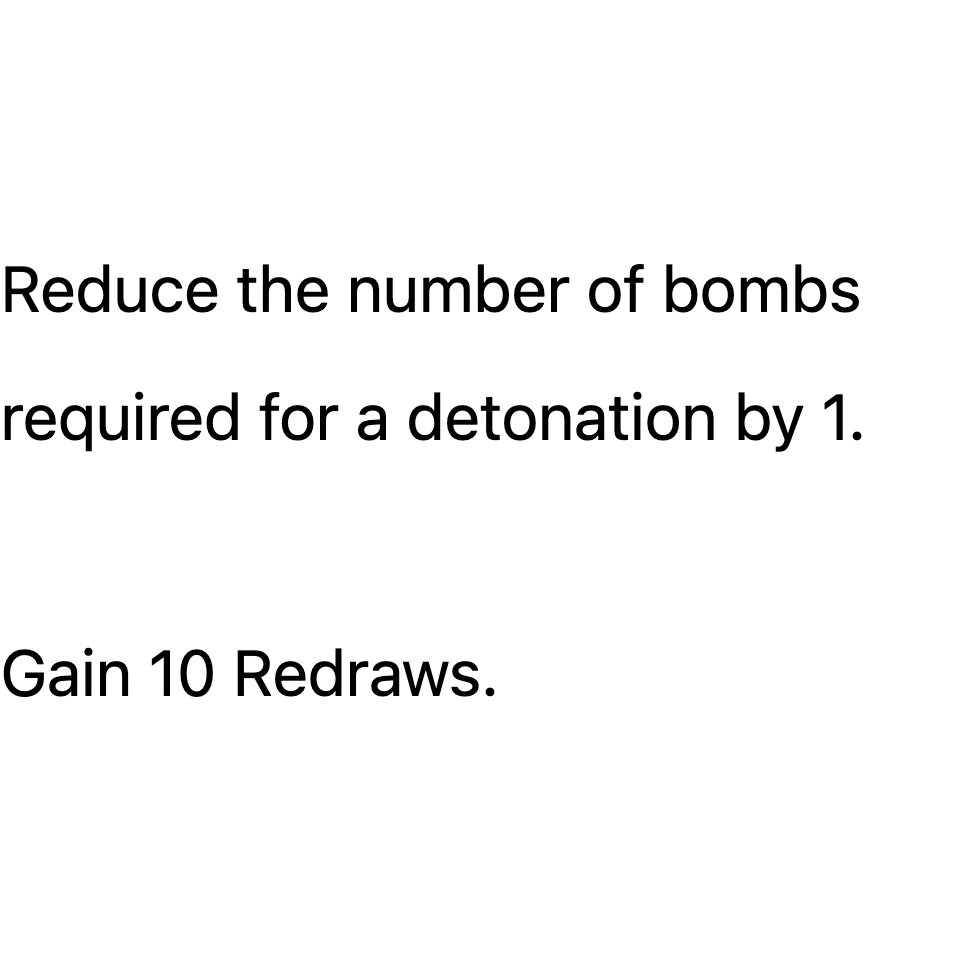
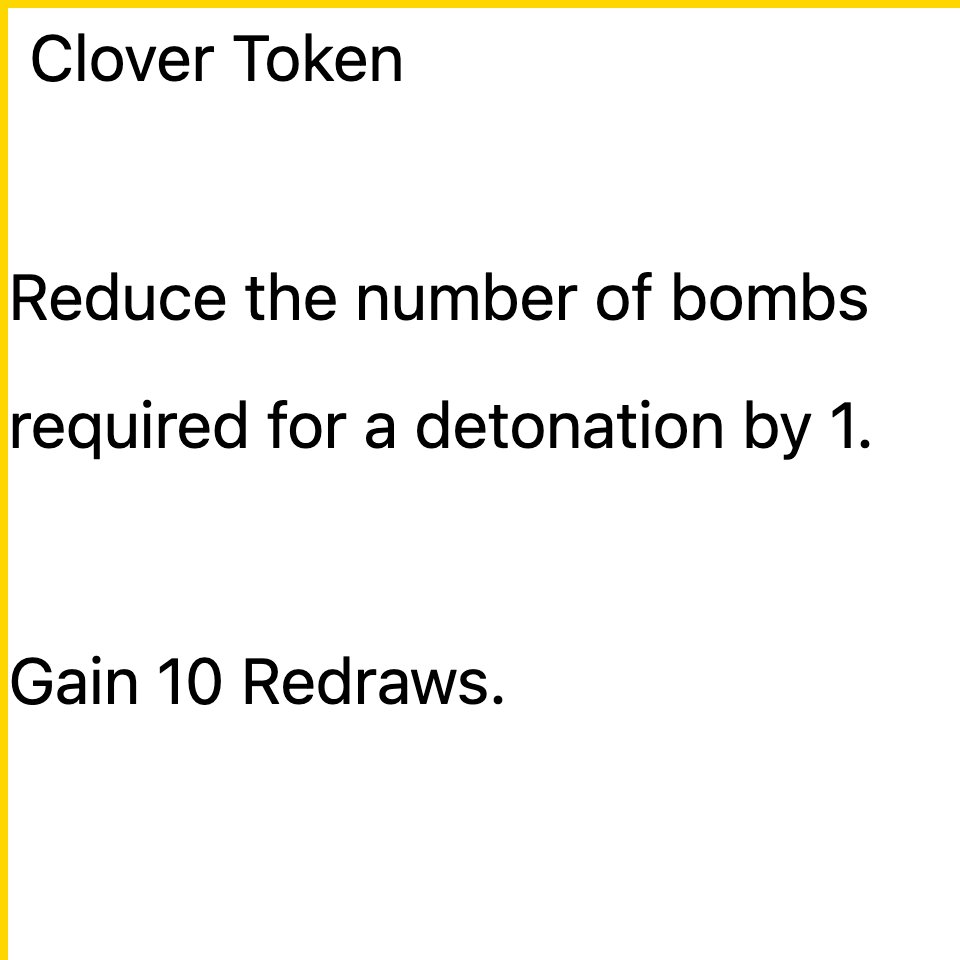
New art

Changed region(s): [[0.0, 0.0, 1.0, 1.0]]

diff --git a/render_cards.py b/render_cards.py
@@ -46,8 +46,8 @@ from PIL import Image
 CARD_SHEETS: Dict[str, Dict] = {
     # sheet_name: { "outputs": [(card_type_name, template_path, filename_prefix), ...] }
     "Capsules": {"outputs": [("capsule", "card_ball.html", "")]},
-    "Tokens": {"outputs": [("token", "card_basic.html", "")]},
-    "Bombs": {"outputs": [("bomb", "card_basic.html", "")]},
+    "Tokens": {"outputs": [("token", "card_ball.html", "")]},
+    "Bombs": {"outputs": [("bomb", "card_ball.html", "")]},
 }
 
 # -----------------------
